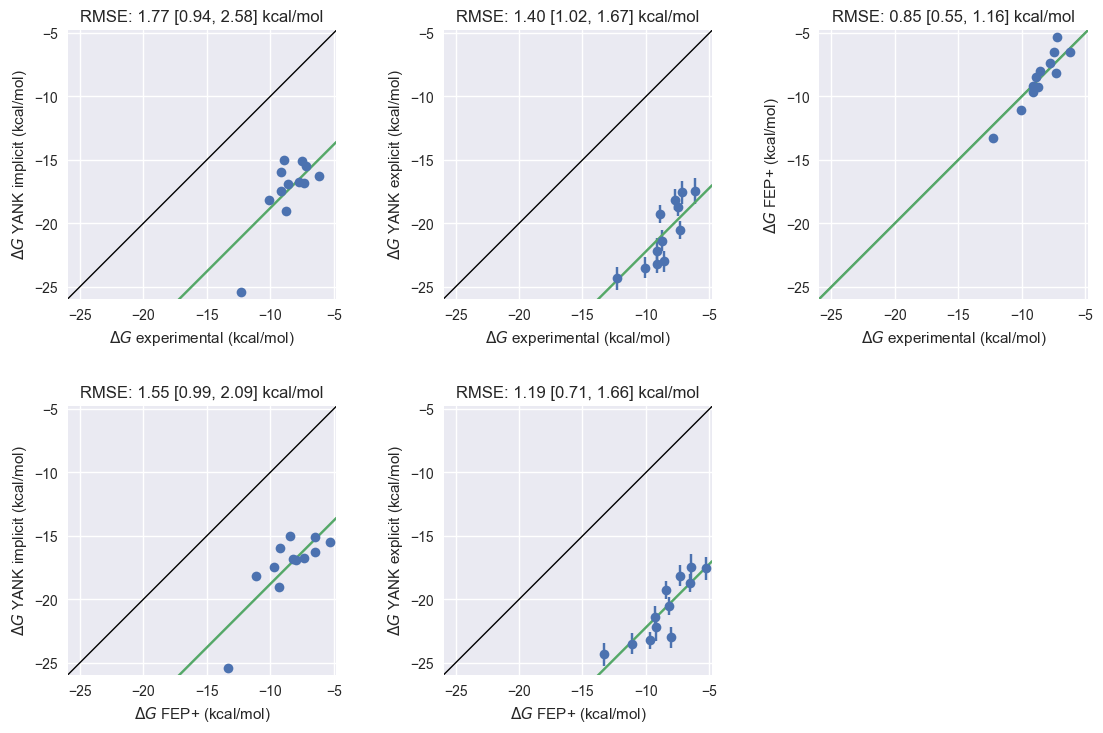
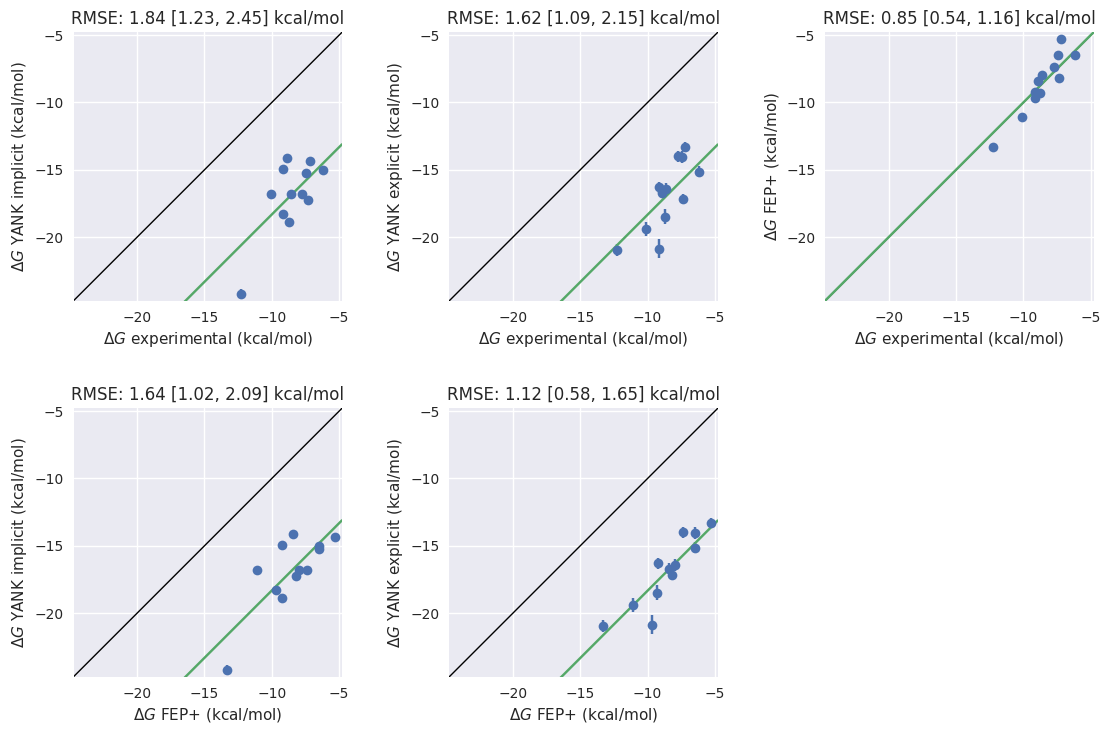
Add MUE for ddg comparison

diff --git a/c-Met_hinge_binders/analysis-results/yank_ddg_compare.py b/c-Met_hinge_binders/analysis-results/yank_ddg_compare.py
@@ -1,0 +1,174 @@
+import numpy as np
+import matplotlib
+matplotlib.use('Agg')
+import matplotlib.pyplot as plt
+import seaborn as sns
+import copy
+
+data = np.load('free_energy_data.npz')
+exp = data['experimental']
+fepp = data['fepplus']
+yank_explicit_fe = data['yank_explicit_fe']
+yank_explicit_error = data['yank_explicit_error']
+yank_implicit_fe = data['yank_implicit_fe']
+yank_implicit_error = data['yank_implicit_error']
+
+nligands = len(exp)
+
+
+def fit(x, y):
+    return np.mean(y - 1*x)
+
+
+def rmse(x, y, b):
+    f = 1*x + b
+    rmse = np.sqrt(np.mean((f-y)**2))
+    return rmse
+
+
+def mue(x, y, b):
+    f = 1*x + b
+    return np.mean(np.abs(f-y))
+
+
+def ci(xtrace, width=0.95):
+    """
+    Compute confidence interval
+    """
+    x = np.array(xtrace)
+    x.sort()
+    n = len(xtrace)
+    low = int(n * (1-width)/2.0)
+    high = int(n * (1 - (1-width)/2.0))
+    return x[low], x[high]
+
+
+def boostrap_fn(x, y, b, function=rmse, nreplicates=1000):
+    replicate_rmse = np.zeros([nreplicates])
+    n_data = len(x)
+    assert len(x) == len(y)
+    for replicate in range(nreplicates):
+        # sample with replacement
+        bootstrap_indices = np.random.choice(range(n_data), n_data)
+        # compute statistics on this sample
+        replicate_rmse[replicate] = function(x[bootstrap_indices], y[bootstrap_indices], b)
+    # report 95% CI
+    xlow, xhigh = ci(replicate_rmse)
+    return xlow, xhigh
+
+
+def equalize_ticks(axes, small_ax):
+    if small_ax == "x":
+        large_ax = "y"
+    else:
+        large_ax = "x"
+    small_ticks = getattr(axes, "get_{}ticks".format(small_ax))()
+    lims = getattr(axes, "get_{}lim".format(small_ax))()
+    real_ticks = np.array([
+        tick for tick in small_ticks if lims[0] <= tick <= lims[1]
+    ])
+    getattr(axes, "set_{}ticks".format(large_ax))(real_ticks)
+
+
+ynames =  ['YANK implicit',     'YANK explicit',     'FEP+',             'YANK implicit',     'YANK explicit']
+xnames =  ['experimental',      'experimental',      'experimental',     'FEP+',              'FEP+']
+ydatas =  [yank_implicit_fe,    yank_explicit_fe,    fepp,               yank_implicit_fe,    yank_explicit_fe]
+yerrors = [yank_implicit_error, yank_explicit_error, np.zeros(nligands), yank_implicit_error, yank_explicit_error]
+xdatas =  [exp,                 exp,                 exp,                fepp,                fepp]
+nplots = len(xdatas)
+
+# all_data = np.concatenate((exp, fepp, yank_explicit_fe, yank_implicit_fe))
+all_data = np.array([])
+rmses_x = [None] * nplots
+rmses_y = [None] * nplots
+
+sns.set()
+base_size = 4
+nrows = 2
+ncols = 3
+da_set = [('RMSE', rmse), ('MUE', mue)]
+
+f, a = plt.subplots(nrows, ncols, figsize=(base_size*ncols, base_size*nrows))
+color_wraps = ['orange', 'g']
+decoy_artists = []
+# Calculate plot min/max limits
+# First pass: plot data
+sbn_colors = sns.color_palette("hls", nligands)
+for index in range(nplots):
+    axes = a.flatten()[index]
+    xname = copy.deepcopy(xnames[index])
+    xdata = copy.deepcopy(xdatas[index])
+    yname = copy.deepcopy(ynames[index])
+    ydata = copy.deepcopy(ydatas[index])
+    yerror = copy.deepcopy(yerrors[index])
+    rmse_x = np.array([])
+    rmse_y = np.array([])
+    for ref_id in range(nligands):
+        color = sbn_colors[ref_id]
+        xlocal = xdata - xdata[ref_id]
+        ylocal = ydata - ydata[ref_id]
+        yerror_local = np.sqrt(yerror**2 + yerror[ref_id]**2)
+        # Plot the scatter
+        axes.scatter(xlocal, ylocal, marker='o', edgecolors='k',
+                     c=color, zorder=20)
+        axes.errorbar(xlocal, ylocal, yerr=2*yerror_local, ecolor=color,
+                      elinewidth=0, mec='none', mew=0, linestyle='None',
+                      zorder=10)
+        all_data = np.concatenate((all_data, xlocal, ylocal))
+        rmse_x = np.concatenate((rmse_x, xlocal))
+        rmse_y = np.concatenate((rmse_y, ylocal))
+    rmses_x[index] = rmse_x
+    rmses_y[index] = rmse_y
+# 2nd pass for formatting
+# Establish min/max limits on graph
+min_max = np.array([min(all_data)-.5, max(all_data)+0.5])
+for index in range(nplots):
+    axes = a.flatten()[index]
+    rmse_x = rmses_x[index]
+    rmse_y = rmses_y[index]
+    xname = copy.deepcopy(xnames[index])
+    yname = copy.deepcopy(ynames[index])
+    # Plot the y=x line
+    axes.plot(min_max, min_max, lw=1, c='k', zorder=30)
+    # Calculate the local best fit line
+    local_fit = fit(rmse_x, rmse_y)
+    # Plot the local best fit line
+    axes.plot(min_max, min_max + local_fit, zorder=30)
+    # Set the limits and aspect ratio
+    axes.set_xlim(min_max)
+    axes.set_ylim(min_max)
+    axes.set_aspect('equal', 'box')
+    # Add labels
+    axes.set_xlabel(r"$\Delta\Delta G$ {} (kcal/mol)".format(xname))
+    axes.set_ylabel(r"$\Delta\Delta G$ {} (kcal/mol)".format(yname))
+    title_text = []
+    for name, fn in da_set:
+        local = fn(rmse_x, rmse_y, local_fit)
+        # Calculate CI
+        ci_min, ci_max = boostrap_fn(rmse_x, rmse_y, local_fit, fn)
+        title_text.append("{3}: {0:3.2f} [{1:3.2f}, {2:3.2f}] kcal/mol".format(local, ci_min, ci_max, name))
+    axes.annotate('\n'.join(title_text),
+                  xy=(0.5, 1.08),
+                  xycoords='axes fraction',
+                  rotation=0,
+                  ha='center', va='center')
+    # Equalize ticks
+    xticks = axes.get_xticks()
+    yticks = axes.get_yticks()
+    if len(xticks) < len(yticks):
+        equalize_ticks(axes, 'x')
+    else:
+        equalize_ticks(axes, 'y')
+# Delete unused plots
+for index in range(nplots, a.size):
+    f.delaxes(a.flatten()[index])
+# Adjust spacing
+f.subplots_adjust(hspace=0.00, wspace=0.4, top=0.99, bottom=0.05, left=0.1, right=0.95)
+txt = r"$\Delta\Delta G$ relative to first molecule" + "\nwhich is also on 0,0" + "\n\n"
+txt += "$\Delta\Delta G$ is taken separately on each axis\n" \
+       "e.g. Experiment is relative to Experiment,\n   and FEP+ is relative to FEP+\n\n"
+txt += "Dot color between figures is the same\nreference molecule"
+# f.text((ncols*3-3)/(ncols*3), (1)/(nrows*2), txt, wrap=True,)
+f.savefig("mue_hinge_vs_fepp_exper.png", bbox_inches='tight')
+# f.savefig("mue_hinge_vs_fepp_exper.pdf", bbox_inches='tight')
+# plt.show()

diff --git a/c-Met_hinge_binders/analysis-results/yank_mue_compare.py b/c-Met_hinge_binders/analysis-results/yank_mue_compare.py
@@ -1,0 +1,133 @@
+import numpy as np
+import matplotlib.pyplot as plt
+import seaborn as sns
+
+data = np.load('free_energy_data.npz')
+exp = data['experimental']
+fepp = data['fepplus']
+yank_explicit_fe = data['yank_explicit_fe']
+yank_explicit_error = data['yank_explicit_error']
+yank_implicit_fe = data['yank_implicit_fe']
+yank_implicit_error = data['yank_implicit_error']
+
+nligands = len(exp)
+
+
+def fit(x, y):
+    return np.mean(y - 1*x)
+
+
+def rmse(x, y, b):
+    f = 1*x + b
+    rmse = np.sqrt(np.mean((f-y)**2))
+    return rmse
+
+
+def mue(x, y, b):
+    f = 1*x + b
+    return np.mean(np.abs(f-y))
+
+
+def ci(xtrace, width=0.95):
+    """
+    Compute confidence interval
+    """
+    x = np.array(xtrace)
+    x.sort()
+    n = len(xtrace)
+    low = int(n * (1-width)/2.0)
+    high = int(n * (1 - (1-width)/2.0))
+    return x[low], x[high]
+
+
+def boostrap_mue(x, y, b, nreplicates=1000):
+    replicate_rmse = np.zeros([nreplicates])
+    for replicate in range(nreplicates):
+        # sample with replacement
+        bootstrap_indices = np.random.choice(range(nligands), nligands)
+        # compute statistics on this sample
+        replicate_rmse[replicate] = mue(x[bootstrap_indices], y[bootstrap_indices], b)
+    # report 95% CI
+    xlow, xhigh = ci(replicate_rmse)
+    return xlow, xhigh
+
+
+def equalize_ticks(axes, small_ax):
+    if small_ax == "x":
+        large_ax = "y"
+    else:
+        large_ax = "x"
+    small_ticks = getattr(axes, "get_{}ticks".format(small_ax))()
+    lims = getattr(axes, "get_{}lim".format(small_ax))()
+    real_ticks = np.array([
+        tick for tick in small_ticks if lims[0] <= tick <= lims[1]
+    ])
+    getattr(axes, "set_{}ticks".format(large_ax))(real_ticks)
+
+
+ynames =  ['YANK implicit',     'YANK explicit',     'FEP+',             'YANK implicit',     'YANK explicit']
+xnames =  ['experimental',      'experimental',      'experimental',     'FEP+',              'FEP+']
+ydatas =  [yank_implicit_fe,    yank_explicit_fe,    fepp,               yank_implicit_fe,    yank_explicit_fe]
+yerrors = [yank_implicit_error, yank_explicit_error, np.zeros(nligands), yank_implicit_error, yank_explicit_error]
+xdatas =  [exp,                 exp,                 exp,                fepp,                fepp]
+nplots = len(xdatas)
+
+all_data = np.concatenate((exp, fepp, yank_explicit_fe, yank_implicit_fe))
+
+# Establish min/max limits on graph
+min_max = np.array([min(all_data)-.5, max(all_data)+0.5])
+
+sns.set()
+base_size = 4
+nrows = 2
+ncols = 3
+f, a = plt.subplots(nrows, ncols, figsize=(base_size*ncols, base_size*nrows))
+color_wraps = ['orange', 'g']
+decoy_artists = []
+# Calculate plot min/max limits
+for index in range(nplots):
+    axes = a.flatten()[index]
+    xname = xnames[index]
+    xdata = xdatas[index]
+    yname = ynames[index]
+    ydata = ydatas[index]
+    yerror = yerrors[index]
+    # Plot the scatter
+    axes.errorbar(xdata, ydata, yerr=2*yerror, fmt='o')  # Plot scatter
+    # Plot the y=x line
+    axes.plot(min_max, min_max, lw=1, c='k')
+    # Calculate the local best fit line
+    local_fit = fit(xdata, ydata)
+    # Plot the local best fit line
+    axes.plot(min_max, min_max + local_fit)
+    local_mue = mue(xdata, ydata, local_fit)
+    # Calculate CI
+    ci_min, ci_max = boostrap_mue(xdata, ydata, local_fit)
+    # Set the limits and aspect ratio
+    axes.set_xlim(min_max)
+    axes.set_ylim(min_max)
+    axes.set_aspect('equal', 'box')
+    # Add labels
+    axes.set_xlabel(r"$\Delta G$ {} (kcal/mol)".format(xname))
+    axes.set_ylabel(r"$\Delta G$ {} (kcal/mol)".format(yname))
+    axes.annotate("MUE: {0:3.2f} [{1:3.2f}, {2:3.2f}] kcal/mol".format(local_mue, ci_min, ci_max),
+                  xy=(0.5, 1.05),
+                  xycoords='axes fraction',
+                  rotation=0,
+                  ha='center', va='center')
+    # Equalize ticks
+    xticks = axes.get_xticks()
+    yticks = axes.get_yticks()
+    # import pdb; pdb.set_trace()
+    if len(xticks) < len(yticks):
+        equalize_ticks(axes, 'x')
+    else:
+        equalize_ticks(axes, 'y')
+# Delete unused plots
+for index in range(nplots, a.size):
+    f.delaxes(a.flatten()[index])
+# Adjust spacing
+f.subplots_adjust(hspace=0.00, wspace=0.4, top=0.99, bottom=0.05, left=0.1, right=0.95)
+f.savefig("mue_hinge_vs_fepp_exper.png", bbox_inches='tight')
+f.savefig("mue_hinge_vs_fepp_exper.pdf", bbox_inches='tight')
+plt.show()
